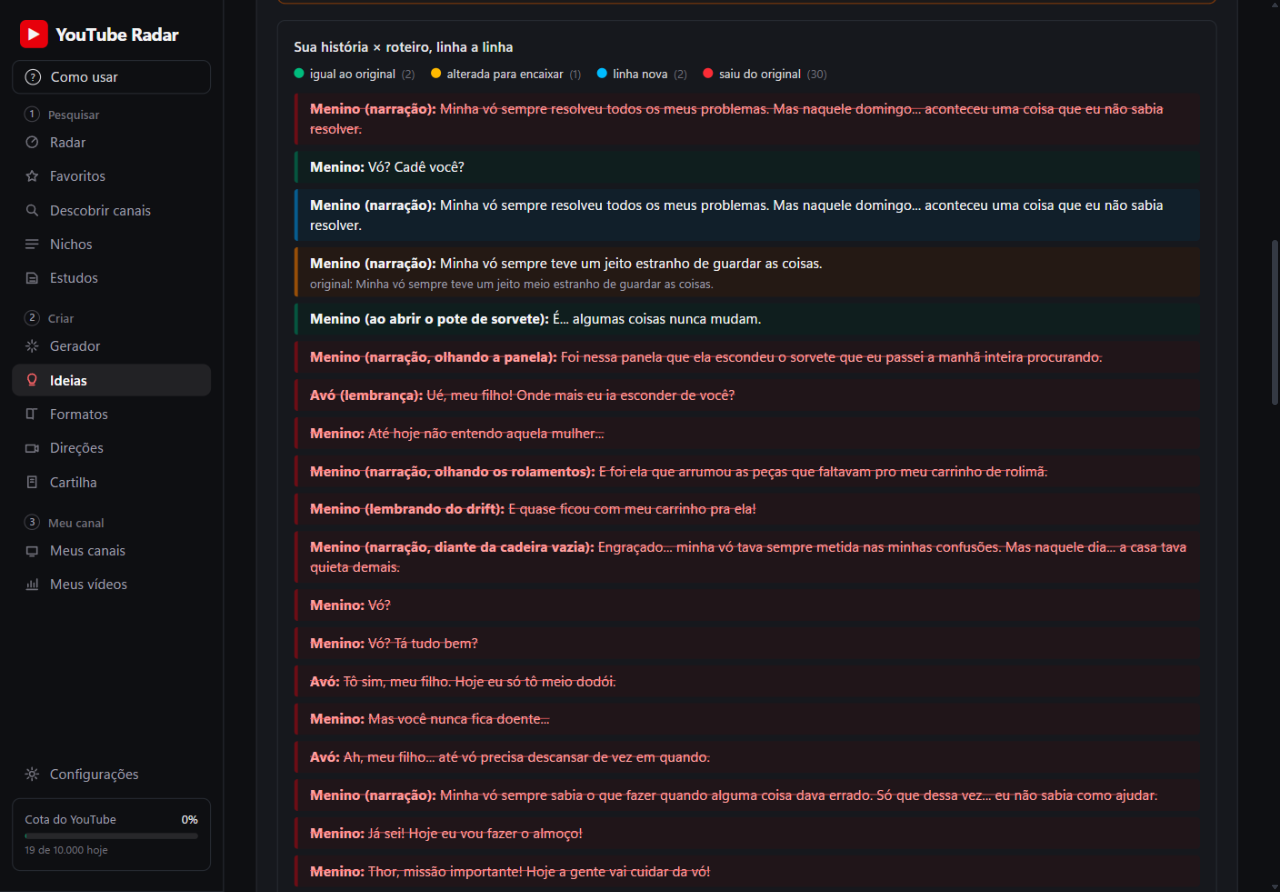
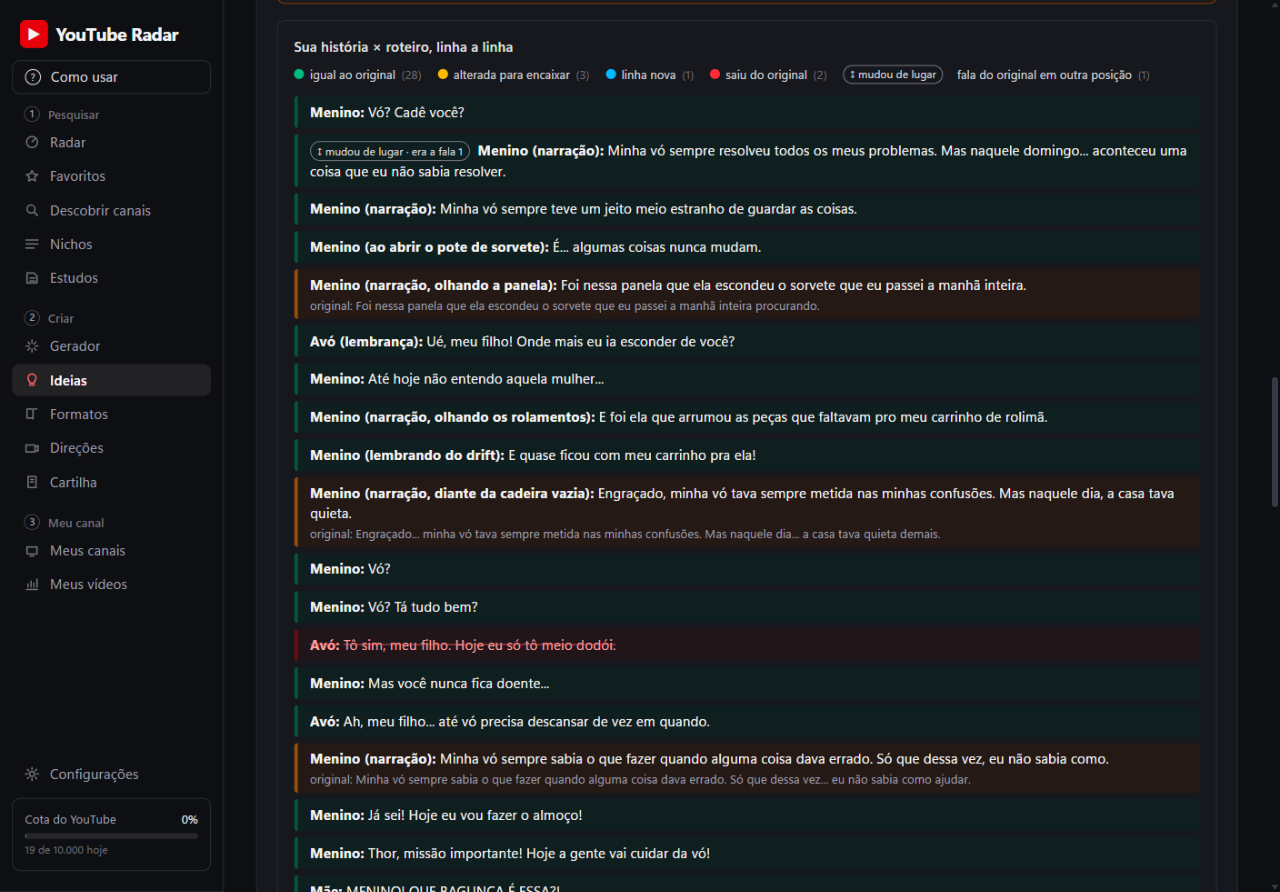
fix(diff): alinhar por correspondência; fala que só mudou de lugar não vira saiu+nova
- Casa as falas por semelhança em todo o texto (1 para 1, a mais parecida primeiro);
  a maior sequência em ordem fica no lugar, o resto leva a etiqueta "mudou de lugar · era a fala N"
  (verde se igual, amarelo se parecida). Só o que sobra vira saiu/nova.
- "Igual" agora exige o mesmo texto (sem pontuação/maiúscula/acento); uma palavra a menos é alterada.
- Legenda com a contagem das que mudaram de lugar.
- Testes: linha movida igual, movida parecida, abertura da vó trocada, palavra a menos.
- Print 03b refeito com roteiro que mantém 31 de 33 falas da avó.

diff --git a/src/lib/line-diff.ts b/src/lib/line-diff.ts
@@ -1,16 +1,18 @@
 /**
  * Comparação linha a linha entre a história do Gubs e o roteiro gerado (v3, Gubs 17/11). Sem IA:
- * alinha as falas por semelhança de texto (palavras) e marca cada linha:
- * igual (verde) · alterada (amarelo, com a original) · nova (azul) · saiu (vermelho, riscada).
+ * casa as falas por semelhança de texto (palavras) em todo o texto e marca cada linha:
+ * igual (verde) · alterada (amarelo, com a original) · nova (azul) · saiu (vermelho, riscada);
+ * igual/alterada em outra posição levam a etiqueta "mudou de lugar".
  */
 export type DiffLine = { who?: string | null; text: string };
 export type DiffKind = "igual" | "alterada" | "nova" | "saiu";
-export type DiffRow = { kind: DiffKind; who?: string | null; text: string; original?: string; originalWho?: string | null; similarity?: number };
+/** moved: a fala existe no original, mas em outra posição (verde/amarelo com etiqueta "mudou de lugar"). originalIndex: 0-based. */
+export type DiffRow = { kind: DiffKind; who?: string | null; text: string; original?: string; originalWho?: string | null; similarity?: number; moved?: boolean; originalIndex?: number };
 
 /** A partir daqui a linha conta como a mesma fala alterada; abaixo disso, é linha nova + linha que saiu. */
 export const ALTERED_MIN = 0.45;
-/** Pequenas diferenças (pontuação, maiúscula, acento) contam como igual. */
-export const SAME_MIN = 0.97;
+/** Igual = mesmo texto depois de tirar pontuação, maiúscula e acento (normLine). Qualquer palavra diferente é "alterada". */
+export const SAME_MIN = 1;
 
 export function normLine(s: string) {
   return s
@@ -50,44 +52,59 @@ export function lineSimilarity(a: string, b: string) {
 }
 
 /**
- * Alinhamento global (programação dinâmica): maximiza a soma das semelhanças dos pares casados, mantendo a ordem.
- * Par só casa com semelhança >= ALTERED_MIN; o que sobra do original "saiu" e o que sobra do roteiro é "nova".
+ * Alinhamento por correspondência (Gubs, revisão do PR #24): uma fala que existe no original e no roteiro nunca vira
+ * saiu + nova só porque mudou de lugar.
+ * 1. Casa as falas pela semelhança no texto todo (o par mais parecido primeiro; empate → posição mais próxima), 1 para 1.
+ * 2. Dos pares, a maior sequência em ordem (soma das semelhanças) fica "no lugar"; os demais são "mudou de lugar".
+ * 3. Só o que sobrou: do original "saiu", do roteiro "nova".
+ * Linhas na ordem do roteiro; as que saíram aparecem perto de onde estavam no original.
  */
 export function diffLines(original: DiffLine[], generated: DiffLine[]): DiffRow[] {
   const n = original.length, m = generated.length;
-  const sim: number[][] = original.map((o) => generated.map((g) => lineSimilarity(o.text, g.text)));
-  const best: number[][] = Array.from({ length: n + 1 }, () => new Array<number>(m + 1).fill(0));
-  for (let i = n - 1; i >= 0; i--)
-    for (let j = m - 1; j >= 0; j--) {
-      let v = Math.max(best[i + 1][j], best[i][j + 1]);
-      if (sim[i][j] >= ALTERED_MIN) v = Math.max(v, sim[i][j] + best[i + 1][j + 1]);
-      best[i][j] = v;
+  const cands: { i: number; j: number; s: number; d: number }[] = [];
+  for (let i = 0; i < n; i++)
+    for (let j = 0; j < m; j++) {
+      const s = lineSimilarity(original[i].text, generated[j].text);
+      if (s >= ALTERED_MIN) cands.push({ i, j, s, d: Math.abs(i / Math.max(n, 1) - j / Math.max(m, 1)) });
     }
-  const rows: DiffRow[] = [];
-  let i = 0, j = 0;
-  const eps = 1e-9;
-  while (i < n || j < m) {
-    if (i < n && j < m && sim[i][j] >= ALTERED_MIN && Math.abs(best[i][j] - (sim[i][j] + best[i + 1][j + 1])) < eps) {
-      const s = sim[i][j];
-      const o = original[i], g = generated[j];
-      rows.push(s >= SAME_MIN
-        ? { kind: "igual", who: g.who, text: g.text, similarity: s }
-        : { kind: "alterada", who: g.who, text: g.text, original: o.text, originalWho: o.who, similarity: s });
-      i++; j++;
-    } else if (i < n && (j >= m || Math.abs(best[i][j] - best[i + 1][j]) < eps)) {
-      rows.push({ kind: "saiu", who: original[i].who, text: original[i].text });
-      i++;
-    } else {
-      rows.push({ kind: "nova", who: generated[j].who, text: generated[j].text });
-      j++;
-    }
+  cands.sort((a, b) => b.s - a.s || a.d - b.d || a.j - b.j);
+  const origOf = new Array<number>(m).fill(-1), simOf = new Array<number>(m).fill(0), usedOrig = new Array<boolean>(n).fill(false);
+  for (const c of cands) {
+    if (usedOrig[c.i] || origOf[c.j] >= 0) continue;
+    usedOrig[c.i] = true; origOf[c.j] = c.i; simOf[c.j] = c.s;
   }
+  // Maior sequência crescente (pelo índice do original, na ordem do roteiro), ponderada pela semelhança.
+  const pairs = Array.from({ length: m }, (_, j) => j).filter((j) => origOf[j] >= 0);
+  const score = pairs.map((j) => simOf[j]), prev = pairs.map(() => -1);
+  for (let a = 0; a < pairs.length; a++)
+    for (let b = 0; b < a; b++)
+      if (origOf[pairs[b]] < origOf[pairs[a]] && score[b] + simOf[pairs[a]] > score[a]) { score[a] = score[b] + simOf[pairs[a]]; prev[a] = b; }
+  const inPlace = new Set<number>();
+  let k = score.length ? score.indexOf(Math.max(...score)) : -1;
+  while (k >= 0) { inPlace.add(pairs[k]); k = prev[k]; }
+
+  const rows: DiffRow[] = [];
+  let nextOrig = 0;
+  const flushRemoved = (upTo: number) => {
+    for (; nextOrig < upTo; nextOrig++) if (!usedOrig[nextOrig]) rows.push({ kind: "saiu", who: original[nextOrig].who, text: original[nextOrig].text, originalIndex: nextOrig });
+  };
+  for (let j = 0; j < m; j++) {
+    const g = generated[j], i = origOf[j];
+    if (i < 0) { rows.push({ kind: "nova", who: g.who, text: g.text }); continue; }
+    const moved = !inPlace.has(j);
+    if (!moved) flushRemoved(i);
+    const o = original[i], s = simOf[j];
+    rows.push(s >= SAME_MIN
+      ? { kind: "igual", who: g.who, text: g.text, similarity: s, moved, originalIndex: i }
+      : { kind: "alterada", who: g.who, text: g.text, original: o.text, originalWho: o.who, similarity: s, moved, originalIndex: i });
+  }
+  flushRemoved(n);
   return rows;
 }
 
 export function diffCounts(rows: DiffRow[]) {
-  const c: Record<DiffKind, number> = { igual: 0, alterada: 0, nova: 0, saiu: 0 };
-  for (const r of rows) c[r.kind]++;
+  const c: Record<DiffKind | "movida", number> = { igual: 0, alterada: 0, nova: 0, saiu: 0, movida: 0 };
+  for (const r of rows) { c[r.kind]++; if (r.moved) c.movida++; }
   return c;
 }
 

diff --git a/tests/line-diff.test.ts b/tests/line-diff.test.ts
@@ -28,7 +28,7 @@ test("diff: igual, alterada (com a original), nova e saiu, na ordem do roteiro",
   assert.deepEqual(rows.map((r) => r.kind), ["nova", "igual", "alterada", "saiu", "igual"]);
   assert.equal(rows[2].original, "Tá na panela de pressão, meu filho.");
   assert.equal(rows[3].text, "Isso não faz sentido nenhum.");
-  assert.deepEqual(diffCounts(rows), { igual: 2, alterada: 1, nova: 1, saiu: 1 });
+  assert.deepEqual(diffCounts(rows), { igual: 2, alterada: 1, nova: 1, saiu: 1, movida: 0 });
   // Toda linha do roteiro aparece uma vez, na ordem; toda linha do original aparece uma vez (igual, alterada ou saiu).
   assert.deepEqual(rows.filter((r) => r.kind !== "saiu").map((r) => r.text), gen.map((g) => g.text));
   assert.equal(rows.filter((r) => r.kind !== "nova").length, orig.length);
@@ -50,6 +50,63 @@ test("história da vó contra ela mesma reordenada: as falas casam e só a troca
   assert.equal(c.nova, 1);
   assert.equal(c.saiu, 1);
   assert.equal(c.igual, lines.length - 1);
+});
+
+test("igual só quando o texto é o mesmo: uma palavra a menos numa fala longa já é alterada", () => {
+  const o = "Minha vó sempre sabia o que fazer quando alguma coisa dava errado. Só que dessa vez... eu não sabia como ajudar.";
+  const rows = diffLines([{ text: o }], [{ text: "Minha vó sempre sabia o que fazer quando alguma coisa dava errado. Só que dessa vez, eu não sabia como." }]);
+  assert.deepEqual(rows.map((r) => r.kind), ["alterada"]);
+  assert.deepEqual(diffLines([{ text: "Vó, cadê você?" }], [{ text: "vo cade voce" }]).map((r) => r.kind), ["igual"]);
+});
+
+test("linha movida: igual em outra posição é verde com 'mudou de lugar', nunca saiu + nova", () => {
+  const orig = [
+    { who: "Menino (narração)", text: "Minha vó sempre resolveu todos os meus problemas. Mas naquele domingo... aconteceu uma coisa que eu não sabia resolver." },
+    { who: "Menino", text: "Vó? Cadê você?" },
+    { who: "Menino", text: "É... algumas coisas nunca mudam." },
+    { who: "Avó", text: "Tô sim, meu filho. Hoje eu só tô meio dodói." },
+  ];
+  // Igual ao print 03b: a pergunta subiu para a abertura e a narração desceu.
+  const gen = [orig[1], orig[0], orig[2], orig[3]];
+  const rows = diffLines(orig, gen);
+  assert.deepEqual(rows.map((r) => r.kind), ["igual", "igual", "igual", "igual"]);
+  assert.equal(rows.filter((r) => r.moved).length, 1, "só uma das duas trocadas precisa ser marcada");
+  const moved = rows.find((r) => r.moved)!;
+  assert.ok(moved.originalIndex === 0 || moved.originalIndex === 1);
+  assert.deepEqual(diffCounts(rows), { igual: 4, alterada: 0, nova: 0, saiu: 0, movida: 1 });
+});
+
+test("linha movida e parecida: amarelo com 'mudou de lugar' e a original; o que sobra vira saiu/nova", () => {
+  const orig = [
+    { who: "Avó", text: "Ah, meu filho... até vó precisa descansar de vez em quando." },
+    { who: "Menino", text: "Já sei! Hoje eu vou fazer o almoço!" },
+    { who: "Menino", text: "Thor, missão importante! Hoje a gente vai cuidar da vó!" },
+    { who: "Avó", text: "Uma fala que o roteiro cortou de vez." },
+  ];
+  const gen = [
+    { who: "Menino", text: "Thor, missão importante! Hoje a gente vai cuidar da vovó!" }, // parecida, veio do fim
+    { who: "Avó", text: "Ah, meu filho... até vó precisa descansar de vez em quando." },
+    { who: "Menino", text: "Já sei! Hoje eu vou fazer o almoço!" },
+    { who: "Narrador", text: "Uma frase que não existia na história." },
+  ];
+  const rows = diffLines(orig, gen);
+  const kinds = rows.map((r) => r.kind + (r.moved ? "+movida" : ""));
+  assert.deepEqual(kinds, ["alterada+movida", "igual", "igual", "nova", "saiu"]);
+  assert.equal(rows[0].original, orig[2].text);
+  assert.equal(rows[0].originalIndex, 2);
+  // Nenhuma fala presente nos dois lados aparece como saiu ou nova.
+  for (const r of rows.filter((x) => x.kind === "saiu" || x.kind === "nova")) assert.ok(r.text.startsWith("Uma f"), r.text);
+});
+
+test("história da vó com a abertura trocada de lugar: nada vira saiu+nova", () => {
+  const story = parseStory(readFileSync("tests/fixtures/historia-01-avo.md", "utf8"), true);
+  const lines = storyLines(story);
+  const gen = [lines[1], lines[0], ...lines.slice(2)];
+  const c = diffCounts(diffLines(lines, gen));
+  assert.equal(c.saiu, 0);
+  assert.equal(c.nova, 0);
+  assert.equal(c.igual, lines.length);
+  assert.equal(c.movida, 1);
 });
 
 test("storyLines sem falas marcadas usa os parágrafos do texto", () => {

diff --git a/src/components/LineDiff.tsx b/src/components/LineDiff.tsx
@@ -7,6 +7,14 @@ const STYLE: Record<DiffKind, { row: string; dot: string; label: string }> = {
   saiu: { row: "border-red-800/60 bg-red-950/20", dot: "bg-red-500", label: "saiu do original" },
 };
 
+function MovedTag({ at }: { at?: number }) {
+  return (
+    <span className="mr-2 inline-block whitespace-nowrap rounded-full border border-zinc-500 px-1.5 py-px align-middle text-[11px] text-zinc-300">
+      ↕ mudou de lugar{at != null ? ` · era a fala ${at + 1}` : ""}
+    </span>
+  );
+}
+
 /** História × roteiro, linha a linha, com cor por linha (sem IA: semelhança de texto). */
 export function LineDiff({ original, generated }: { original: DiffLine[]; generated: DiffLine[] }) {
   const rows = diffLines(original, generated);
@@ -20,10 +28,14 @@ export function LineDiff({ original, generated }: { original: DiffLine[]; genera
             {STYLE[k].label} <span className="text-zinc-500">({c[k]})</span>
           </li>
         ))}
+        <li className="flex items-center gap-1.5">
+          <MovedTag /> fala do original em outra posição <span className="text-zinc-500">({c.movida})</span>
+        </li>
       </ul>
       <ol className="space-y-1.5 text-sm">
         {rows.map((r, i) => (
-          <li key={i} className={`rounded border-l-4 px-3 py-1.5 ${STYLE[r.kind].row}`} title={STYLE[r.kind].label}>
+          <li key={i} className={`rounded border-l-4 px-3 py-1.5 ${STYLE[r.kind].row}`} title={r.moved ? `${STYLE[r.kind].label} · mudou de lugar` : STYLE[r.kind].label}>
+            {r.moved && <MovedTag at={r.originalIndex} />}
             <span className={r.kind === "saiu" ? "text-red-300 line-through decoration-red-400/70" : "text-zinc-100"}>
               {r.who && <strong className="mr-1">{r.who}:</strong>}
               {r.text}
